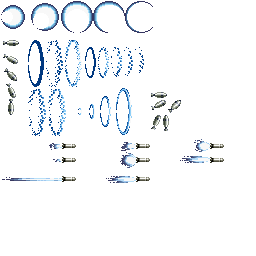
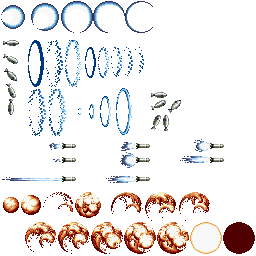
added "bombs" powerup

diff --git a/ModuleParticles.cpp b/ModuleParticles.cpp
@@ -8,6 +8,7 @@
 
 #include "ModulePlayer.h"
 #include "ModuleCollision.h"
+#include "ModuleEnemies.h"
 
 #include "SDL/include/SDL_timer.h"
 
@@ -110,6 +111,49 @@ ModuleParticles::ModuleParticles()
 	//homingMissile.anim.repeat = false;
 	//homingMissile.life = 3000;
 	homingMissile.damage = 2;
+	homingMissile.impactPosition = { 80,0 };
+
+	// bombs powerup particle
+	bombsUp.anim.PushBack({ 3,40,16,6 });
+	bombsUp.anim.PushBack({ 151,100,15,10 });
+	bombsUp.anim.PushBack({ 168,100,13,13 });
+	bombsUp.anim.PushBack({ 168,100,13,13 });
+	bombsUp.anim.PushBack({ 151,115,10,15 });
+	for (uint i = 0; i < 24; ++i)
+		bombsUp.anim.PushBack({ 163,115,6,16 });
+	bombsUp.anim.speed = 0.25f;
+	bombsUp.life = 2000;
+	bombsUp.damage = 2;
+
+	bombsDown.anim.PushBack({ 3,40,16,6 });
+	bombsDown.anim.PushBack({ 3,54,15,10 });
+	bombsDown.anim.PushBack({ 4,68,13,13 });
+	bombsDown.anim.PushBack({ 6,83,10,15 });
+	for (uint i = 0; i < 24; ++i)
+		bombsDown.anim.PushBack({ 8,99,6,16 });
+	bombsDown.anim.speed = 0.25f;
+	bombsDown.life = 2000;
+	bombsDown.damage = 2;
+
+	// power up bombs explosion particle
+	bombGoodBye.anim.PushBack({ 223,222,32,32 });
+	bombGoodBye.anim.PushBack({ 190,222,32,32 });
+	bombGoodBye.anim.PushBack({ 0,192,19,21 });
+	bombGoodBye.anim.PushBack({ 19,192,19,21 });
+	bombGoodBye.anim.PushBack({ 73,192,19,21 });
+	bombGoodBye.anim.PushBack({ 157,222,32,32 });
+	bombGoodBye.anim.PushBack({ 124,222,32,32 });
+	bombGoodBye.anim.PushBack({ 91,222,32,32 });
+	bombGoodBye.anim.PushBack({ 58,222,32,32 });
+	bombGoodBye.anim.PushBack({ 25,222,32,32 });
+	bombGoodBye.anim.PushBack({ 178,190,32,32 });
+	bombGoodBye.anim.PushBack({ 145,190,32,32 });
+	bombGoodBye.anim.PushBack({ 111,190,32,32 });
+	bombGoodBye.anim.PushBack({ 42,190,32,32 });
+	bombGoodBye.anim.speed = 0.5f;
+	bombGoodBye.anim.repeat = false;
+	//bombGoodBye.life = 2000;
+	bombGoodBye.damage = 2;
 
 
 }
@@ -140,6 +184,14 @@ bool ModuleParticles::Start()
 	unitBasicShotImpact.texture = unitBasicShotImpactTexture;
 	laser.texture = laserTexture;
 	homingMissile.texture = powerUpVFXTexture;
+	bombsDown.texture = powerUpVFXTexture;
+	bombsUp.texture = powerUpVFXTexture;
+	homingMissile.deathParticle = &App->enemies->homingExplosion;
+	homingMissile.onCollisionGeneralParticle = &App->enemies->homingExplosion;
+	bombGoodBye.texture = powerUpVFXTexture;
+	bombsDown.onCollisionGeneralParticle = &bombGoodBye;
+	bombsUp.onCollisionGeneralParticle = &bombGoodBye;
+	//bombGoodBye.deathParticle = &bombGoodBye;
 	// ------------------------------------------------
 
 	//load specific Wavs effects for particles --------
@@ -285,7 +337,8 @@ void ModuleParticles::OnCollision(Collider* c1, Collider* c2)
 			//if (c2->type != COLLIDER_WALL) // anything collider
 			//{
 				if (active[i]->onCollisionGeneralParticle != nullptr)
-					AddParticle(*active[i]->onCollisionGeneralParticle, active[i]->position.x, active[i]->position.y, COLLIDER_NONE, { 0,0 }, 0);
+					AddParticle(*active[i]->onCollisionGeneralParticle, active[i]->position.x + active[i]->impactPosition.x,
+						active[i]->position.y + active[i]->impactPosition.y, COLLIDER_NONE, { 0,0 }, 0);
 			//}
 
 			//active[i]->texture = nullptr;

diff --git a/ModulePlayer.cpp b/ModulePlayer.cpp
@@ -173,12 +173,24 @@ update_status ModulePlayer::PreUpdate()
 		if (powerUpActive == powerUpTypes::LASER)
 		{
 			activebuff.laser = true;
+			activebuff.bombs = false;
+			activebuff.missiles = false;
 			powerUpActive = powerUpTypes::NONE;
 		}
 
 		if (powerUpActive == powerUpTypes::MISSILES)
 		{
 			activebuff.missiles = true;
+			activebuff.bombs = false;
+			activebuff.laser = false;
+			powerUpActive = powerUpTypes::NONE;
+		}
+
+		if (powerUpActive == powerUpTypes::BOMBS)
+		{
+			activebuff.bombs = true;
+			activebuff.laser = false;
+			activebuff.missiles = false;
 			powerUpActive = powerUpTypes::NONE;
 		}
 		// --------------------------------------------------------------------
@@ -352,11 +364,17 @@ update_status ModulePlayer::Update()
 
 		//if player press keys of particles emitters
 
-		// timer for missiles
+		// timers -----
 		now_missile_time = SDL_GetTicks() - start_missile_time;
 		if (now_missile_time > cadence_missile)
 		{
 			shootedMissile = false;
+		}
+		
+		now_bombs_time = SDL_GetTicks() - start_bombs_time;
+		if (now_bombs_time > cadence_bombs)
+		{
+			shootedBombs = false;
 		}
 
 		if (playerInput.shot)//App->input->keyboard[SDL_SCANCODE_SPACE] == KEY_STATE::KEY_DOWN)
@@ -400,6 +418,27 @@ update_status ModulePlayer::Update()
 					}
 				}
 
+			}
+
+			// bombs powerup
+			if (activebuff.bombs)
+			{
+				if (!shootedBombs)
+				{
+					shootedBombs = true;
+					start_bombs_time = SDL_GetTicks();
+
+					if (this == App->player[1])
+					{
+						App->particles->AddParticle(App->particles->bombsUp, position.x, position.y - 24, COLLIDER_PLAYER2_SHOT, { 1,0 });
+						App->particles->AddParticle(App->particles->bombsDown, position.x, position.y - 24, COLLIDER_PLAYER2_SHOT, { 1,0 });
+					}
+					else
+					{
+						App->particles->AddParticle(App->particles->bombsUp, position.x, position.y - 6, COLLIDER_PLAYER_SHOT, { 2,-2 });
+						App->particles->AddParticle(App->particles->bombsDown, position.x, position.y + 6, COLLIDER_PLAYER_SHOT, { 2,2 });
+					}
+				}
 			}
 
 

diff --git a/ModulePowerUp.cpp b/ModulePowerUp.cpp
@@ -190,6 +190,7 @@ void ModulePowerUp::OnCollision(Collider* c1, Collider* c2)
 			{
 			case powerUpTypes::BOMBS:
 					//call the functionality of the bombs powerup
+				App->player[playerIndex]->powerUpActive = powerUpTypes::BOMBS;
 				break;
 			case powerUpTypes::BOOST:
 					//call the functionality of the bombs powerup

diff --git a/ModulePlayer.h b/ModulePlayer.h
@@ -147,6 +147,12 @@ public:
 	Uint32 cadence_missile = 500;
 
 	bool shootedMissile = false;
+
+	Uint32 start_bombs_time;
+	Uint32 now_bombs_time;
+	Uint32 cadence_bombs = 500;
+
+	bool shootedBombs = false;
 };
 
 #endif

diff --git a/ModuleParticles.h b/ModuleParticles.h
@@ -87,6 +87,9 @@ public:
 	Particle explosion;
 	Particle laser;
 	Particle homingMissile;
+	Particle bombsUp;
+	Particle bombsDown;
+	Particle bombGoodBye;
 	// enemy goodbye particle
 	
 
